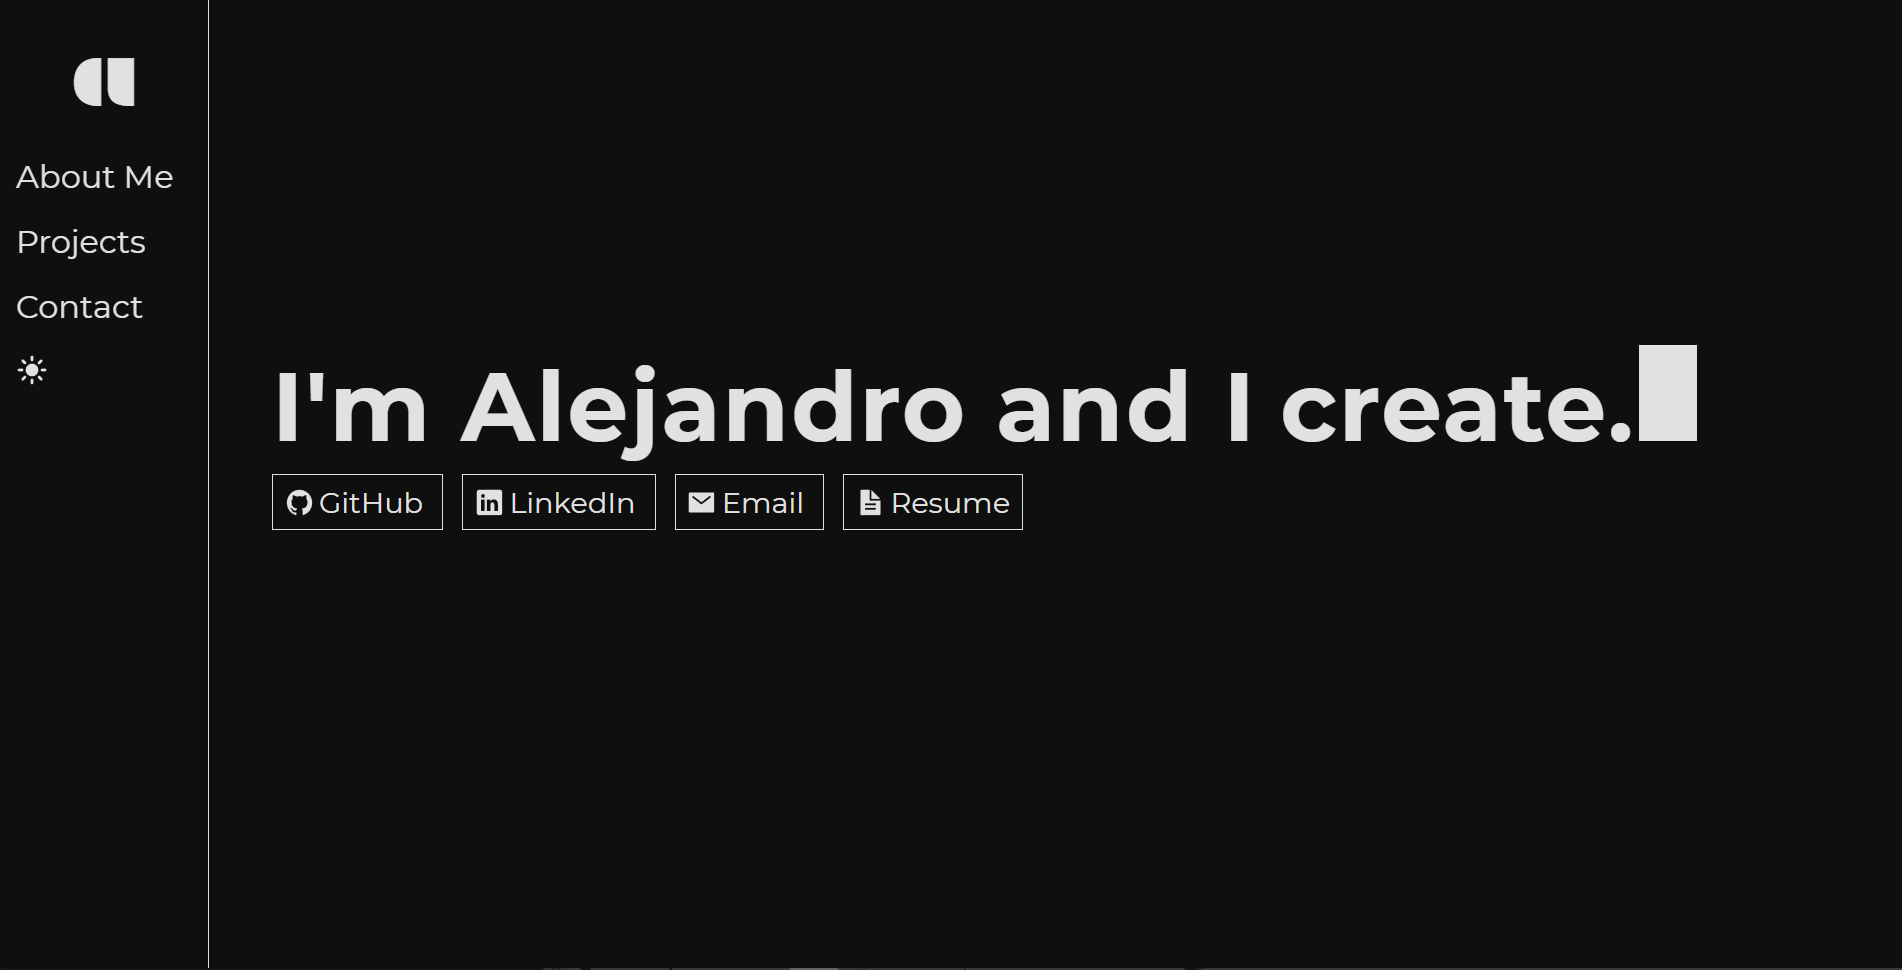
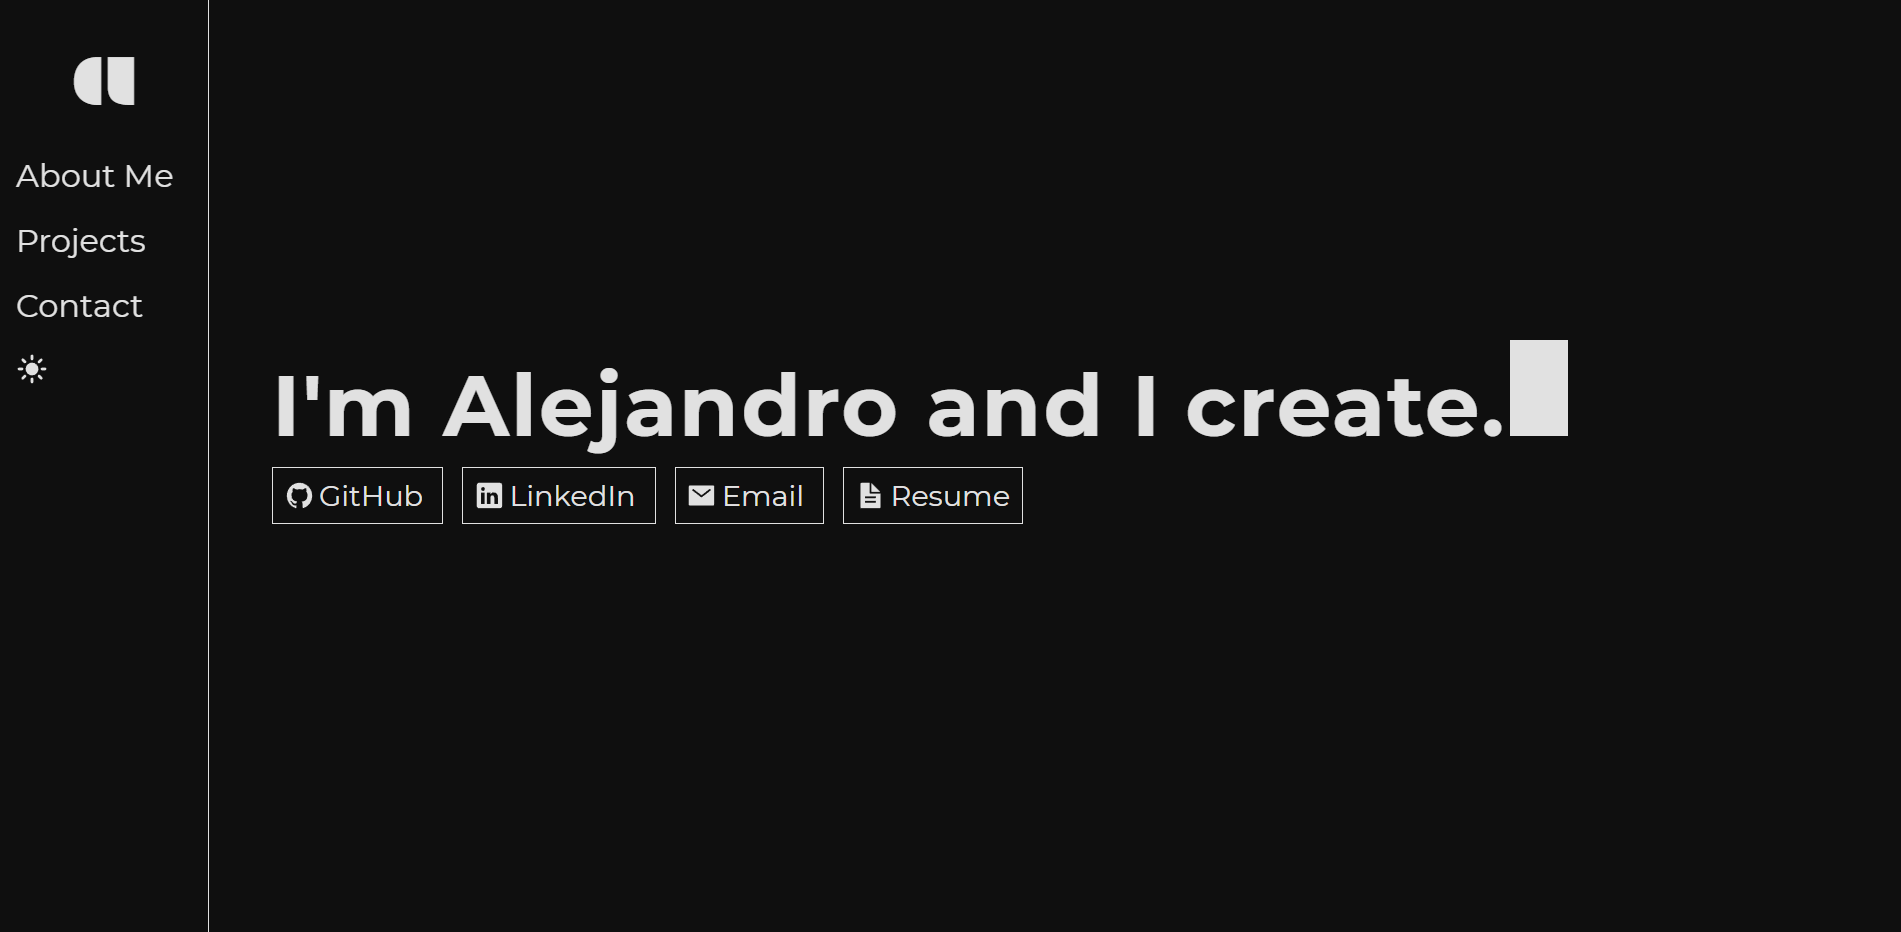
Updated styling and images

diff --git a/index.html b/index.html
@@ -11,12 +11,12 @@
   <!-- Favicon -->
   <link rel="shortcut icon" type="image/svg" href="./imgs/logo.svg" />
   <!-- Preload Assets -->
-  <link rel="preload" href="./styles/main.css" media="screen" as="style" />
-  <link rel="preload" href="./fonts/Plaster-Regular.ttf" as="font" type="font/woff2" crossorigin>
-  <link rel="preload" href="./fonts/Montserrat-Regular.ttf" as="font" type="font/woff2" crossorigin>
-  <link rel="preload" href="./fonts/Montserrat-Bold.ttf" as="font" type="font/woff2" crossorigin>
-  <link rel="preload" href="./fonts/OpenSans-Regular.ttf" as="font" type="font/woff2" crossorigin>
-  <link rel="preload" href="./fonts/OpenSans-Bold.ttf" as="font" type="font/woff2" crossorigin>
+  <link rel="preload" as="style" href="./styles/main.css" media="screen" />
+  <link rel="preload" as="font" href="./fonts/Plaster-Regular.ttf" type="font/woff2" crossorigin>
+  <link rel="preload" as="font" href="./fonts/Montserrat-Regular.ttf" type="font/woff2" crossorigin>
+  <link rel="preload" as="font" href="./fonts/Montserrat-Bold.ttf" type="font/woff2" crossorigin>
+  <link rel="preload" as="font" href="./fonts/OpenSans-Regular.ttf" type="font/woff2" crossorigin>
+  <link rel="preload" as="font" href="./fonts/OpenSans-Bold.ttf" type="font/woff2" crossorigin>
   <!-- Import Stylesheet -->
   <link rel="stylesheet" href="./styles/main.css" media="screen" />
   <!-- Icons -->
@@ -110,7 +110,7 @@
     <div class="projects__grid">
       <div class="project">
         <a href="https://alejandro.id" target="_blank" rel="noopener"><img class="project__image"
-            src="./imgs/Project1.png" alt="Project 1" /></a>
+            src="./imgs/Project1.webp" alt="Project 1" /></a>
       </div>
       <div class="project-info">
         <h2 class="project__title">alejandro.id</h2>

diff --git a/styles/fonts.css b/styles/fonts.css
@@ -1,26 +1,31 @@
 @font-face {
   font-family: "Plaster";
   src: url("../fonts/Plaster-Regular.ttf");
+  font-display: swap;
 }
 
 @font-face {
   font-family: "Montserrat";
   src: url("../fonts/Montserrat-Regular.ttf");
+  font-display: swap;
 }
 
 @font-face {
   font-family: "Montserrat";
   src: url("../fonts/Montserrat-Bold.ttf");
   font-weight: bold;
+  font-display: swap;
 }
 
 @font-face {
   font-family: "OpenSans";
   src: url("../fonts/OpenSans-Regular.ttf");
+  font-display: swap;
 }
 
 @font-face {
   font-family: "OpenSans";
   src: url("../fonts/OpenSans-Bold.ttf");
   font-weight: bold;
+  font-display: swap;
 }

diff --git a/styles/sections/home.css b/styles/sections/home.css
@@ -32,7 +32,7 @@
 #cursor {
   display: inline-block;
   width: 3vw;
-  height: 10vw;
+  height: 5vw;
   background-color: var(--font-color);
 }
 
